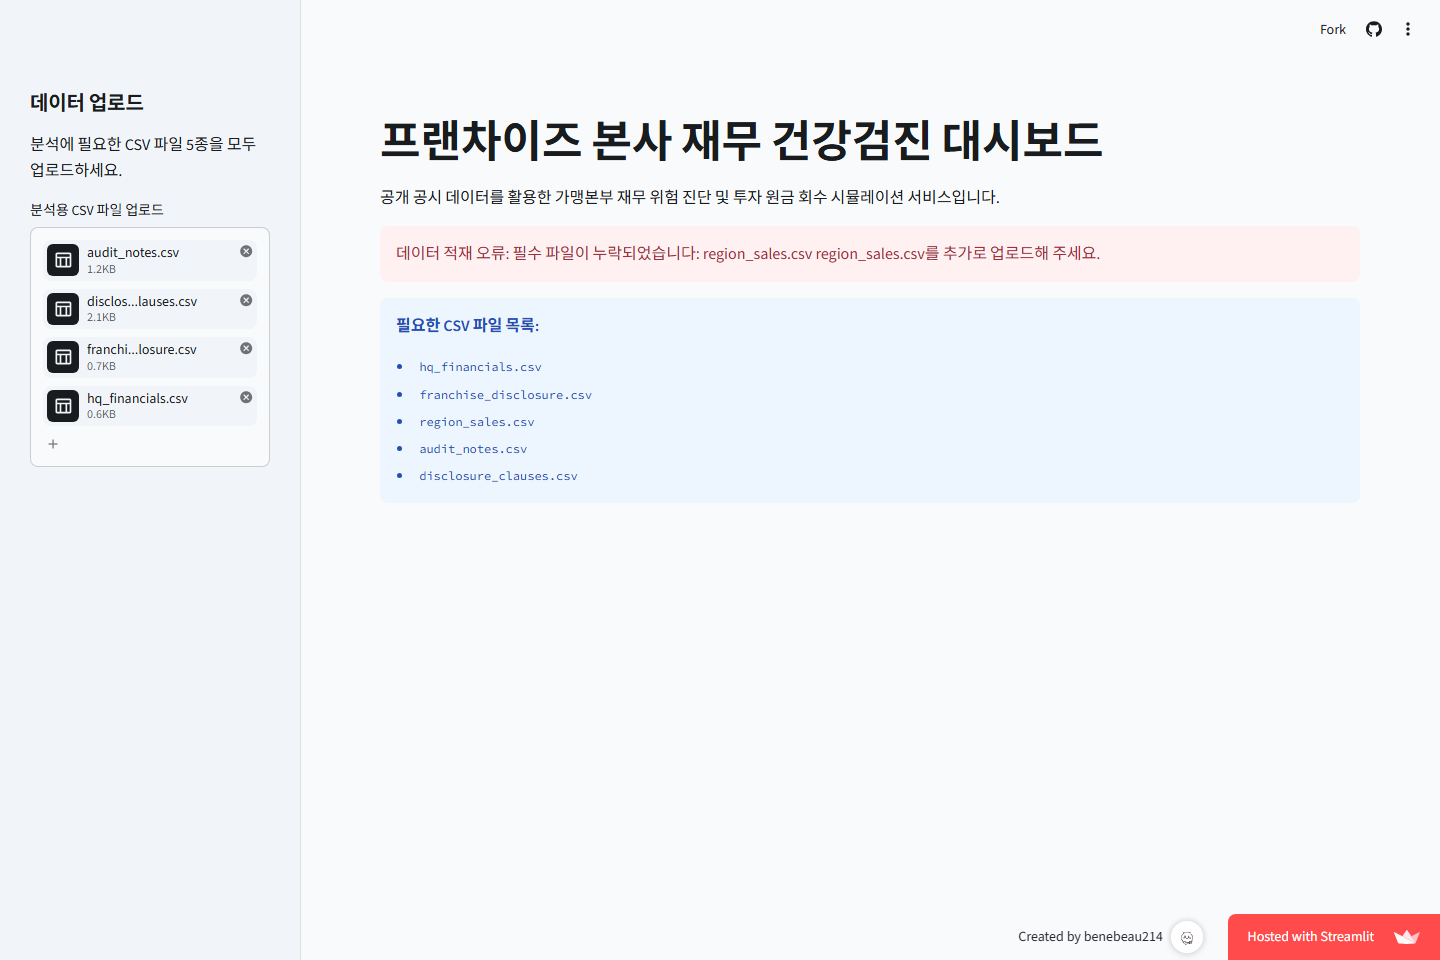
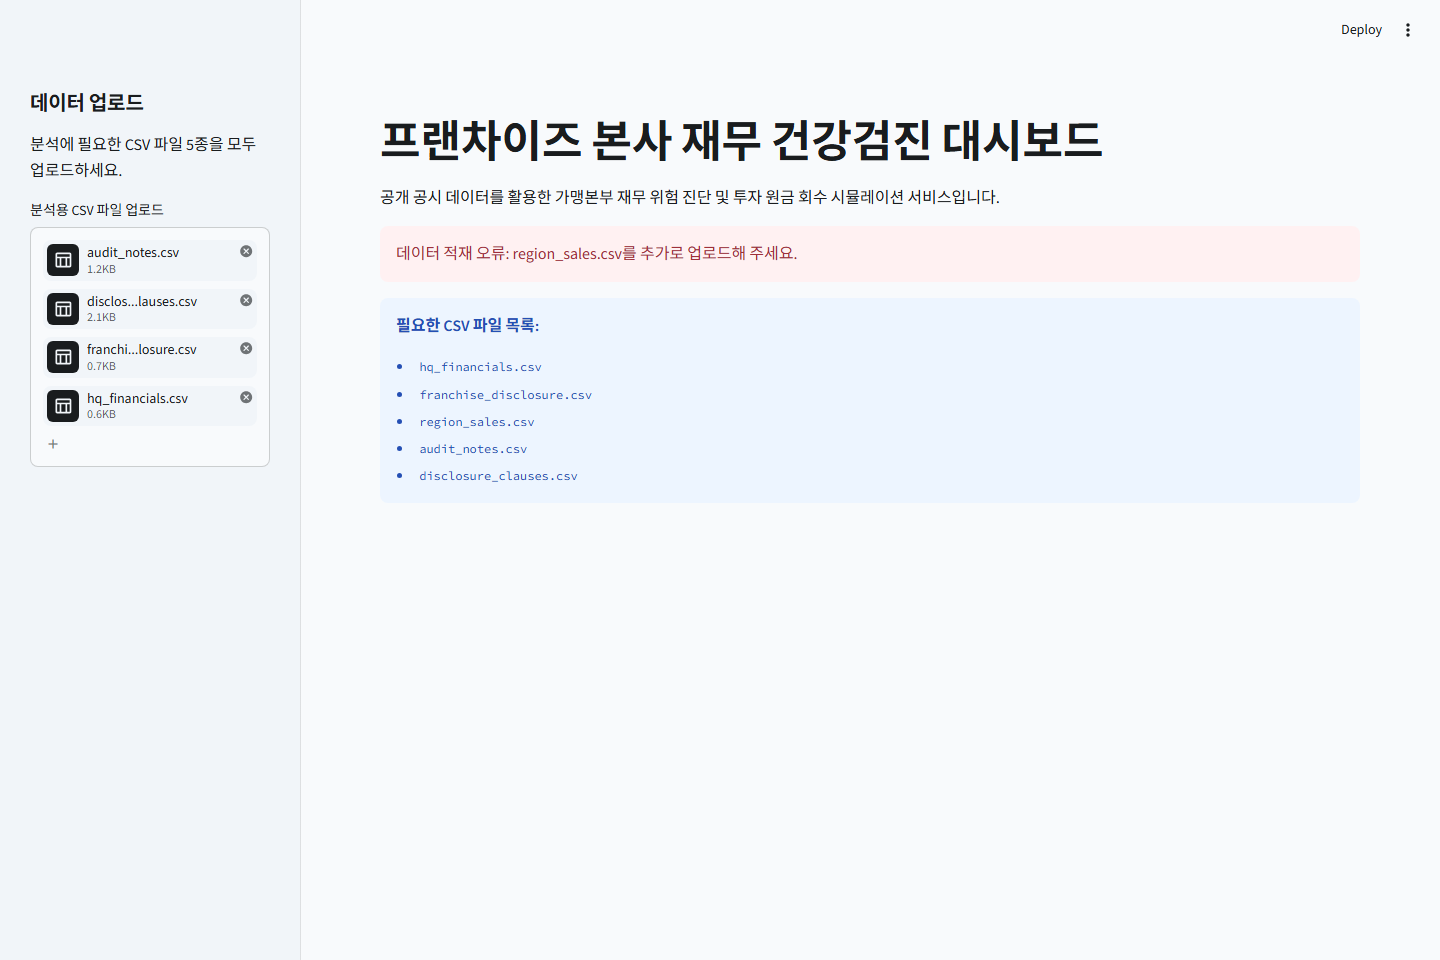
fix: 문구 수정

diff --git a/franchise_checkup/app.py b/franchise_checkup/app.py
@@ -213,7 +213,11 @@ def main() -> None:
             if "중복 업로드" in str(error):
                 message += " 중복된 파일은 하나씩만 남겨 주세요."
             if missing:
-                message += f" {', '.join(missing)}를 추가로 업로드해 주세요."
+                upload_hint = f"{', '.join(missing)}를 추가로 업로드해 주세요."
+                if str(error).startswith("필수 파일이 누락되었습니다:"):
+                    message = f"데이터 적재 오류: {upload_hint}"
+                else:
+                    message += f" {upload_hint}"
             elif "중복 업로드" not in str(error):
                 message += " 해당 CSV의 내용을 확인한 뒤 다시 업로드해 주세요."
             st.session_state.upload_error = (upload_signature, message, False)
